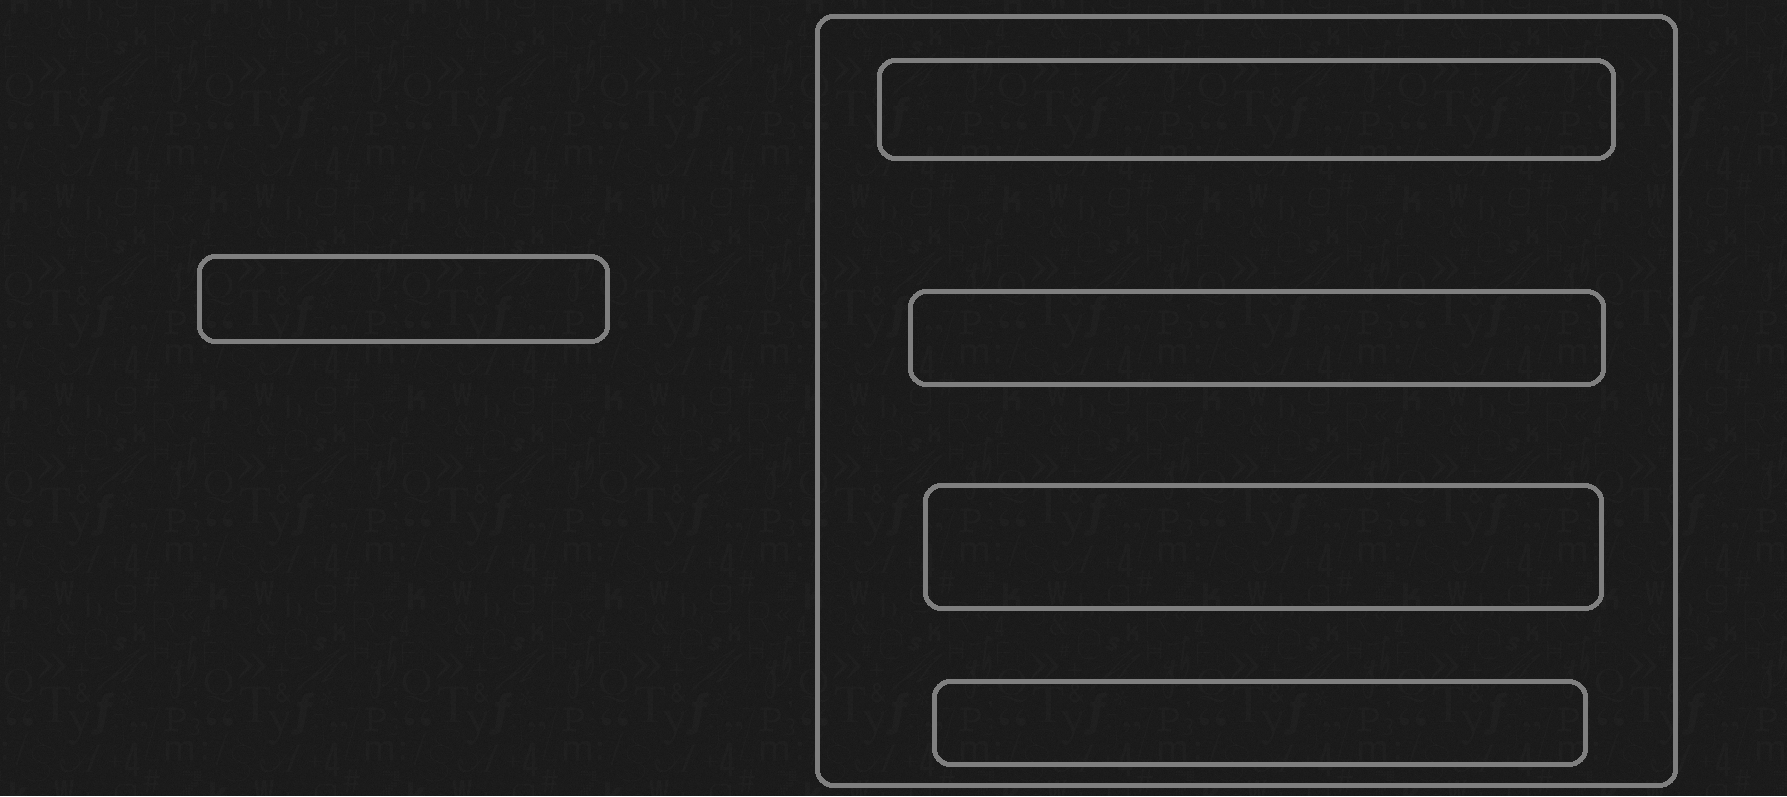
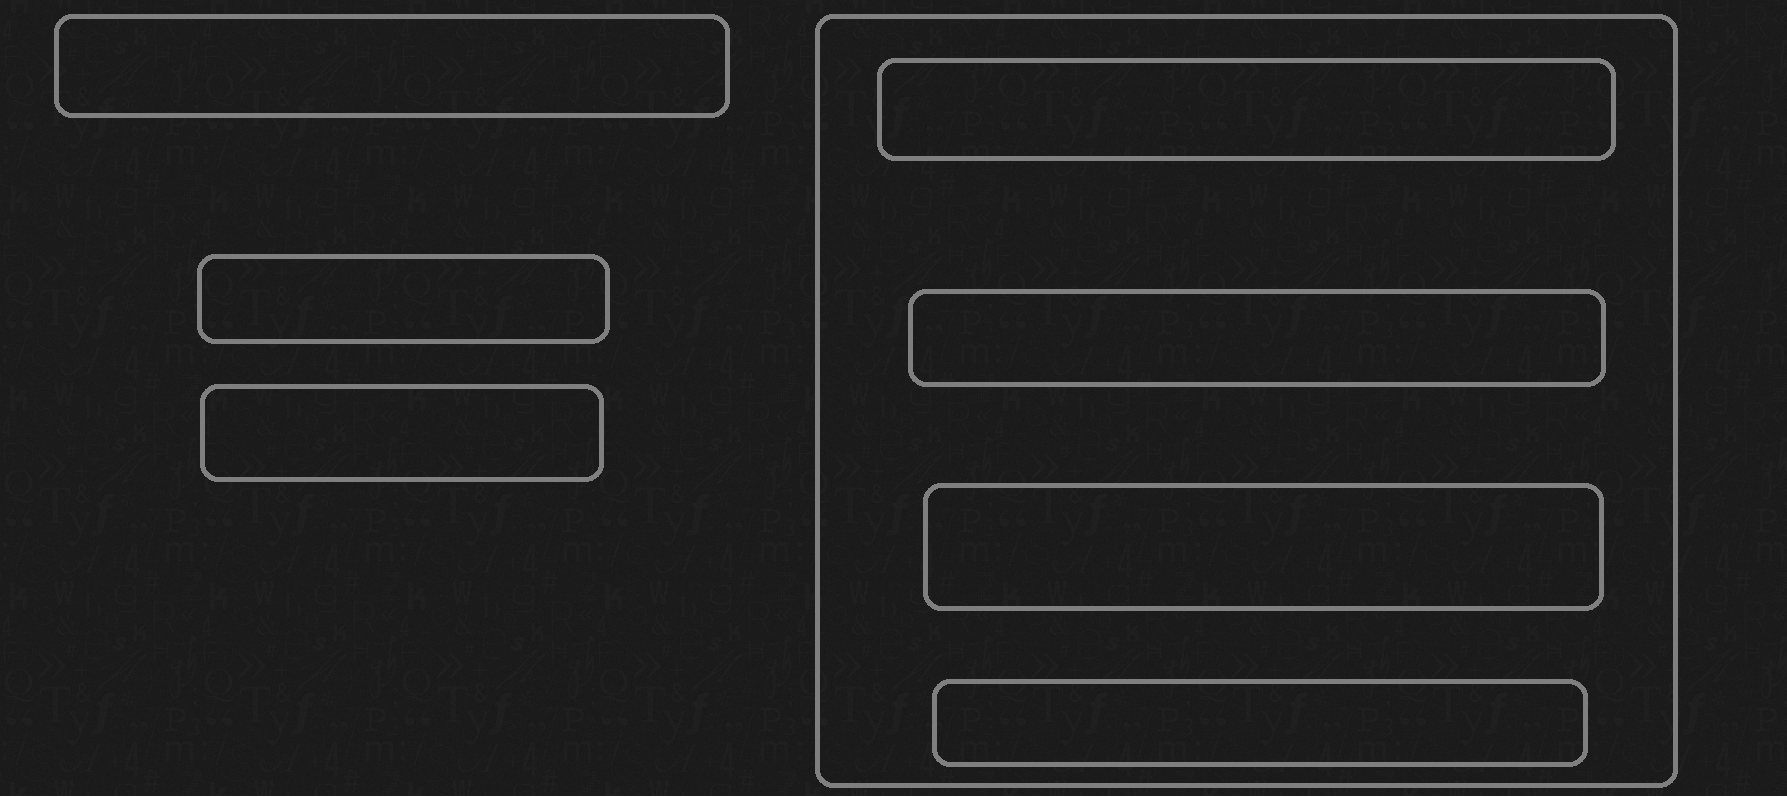
adding relevant links

diff --git a/index.html b/index.html
@@ -4,9 +4,21 @@
 		<script src="https://ajax.googleapis.com/ajax/libs/jquery/1.12.2/jquery.min.js"></script>
 		<link rel="stylesheet" type="text/css" href="stylesheet.css">
 		<script src="wikiviewer.js"></script>
+		<link href='https://fonts.googleapis.com/css?family=Abril+Fatface' rel='stylesheet' type='text/css'>
 		<title>Wikiviewer</title>
 	</head>
 	<body background="http://i.cubeupload.com/okVmhJ.png">
-
+		<div class="container-fluid">
+			<div class="row">
+				<div class="col-md-6 left">
+					<div class="row"></div>
+					<div class="row"></div>
+					<div class="row"></div>
+					<div class="row"></div>
+					<div class="row"></div>
+				</div>
+				<div class="col-md-6 right"></div>
+			</div>
+		</div>
 	</body>
 </html>
